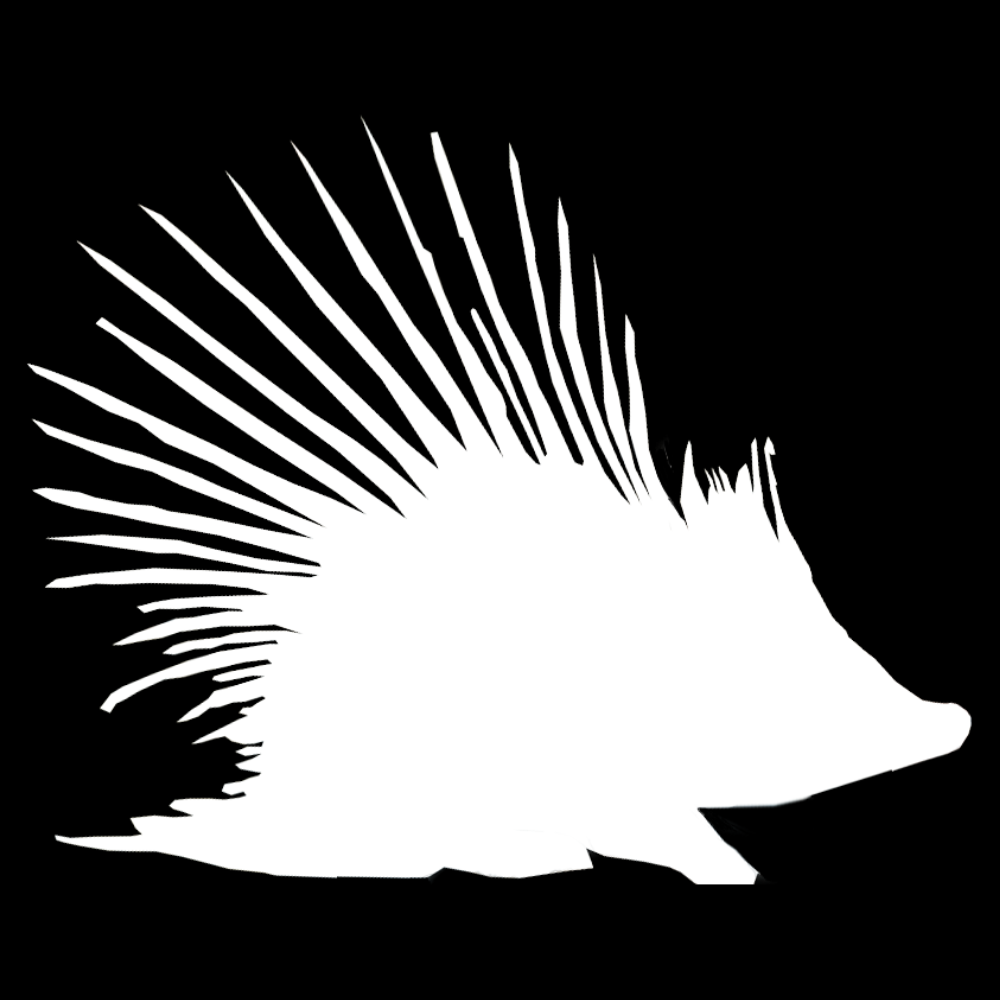
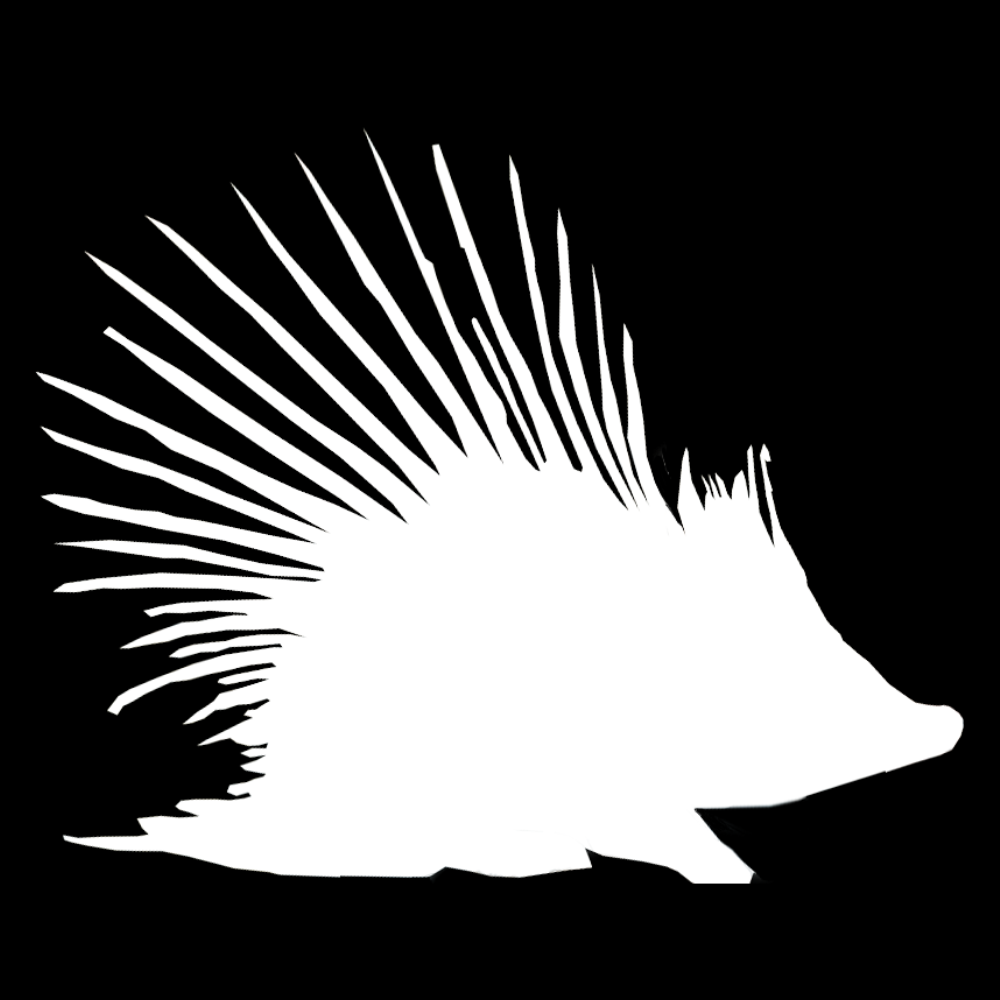
better alignment

diff --git a/scannerTest.py b/scannerTest.py
@@ -36,31 +36,34 @@ def detect_markers(frame):
     
     return qr_data.strip(), corners, ids
 
-    return None, corners, ids
-
 def align_with_aruco_markers(image, marker_corners, ids, sheet_size):
     """Align image based on the four ArUco markers (IDs 0–3)."""
     if marker_corners is None or ids is None or len(marker_corners) < 4:
         print("Error: Not enough ArUco markers detected.")
         return None
 
-    # Expected locations on the print sheet
-    id_to_position = {
-        0: [0, 0],
-        1: [sheet_size[0] - 1, 0],
-        2: [0, sheet_size[1] - 1],
-        3: [sheet_size[0] - 1, sheet_size[1] - 1]
+    # Expected marker centers based on the print sheet design:
+    # Markers were placed with a margin=50 and marker_size=500, so centers are:
+    # Marker 0: (50+250, 50+250) = (300, 300)
+    # Marker 1: (sheet_width - 50 - 250, 300) = (2180, 300)
+    # Marker 2: (300, sheet_height - 50 - 250) = (300, 3208)
+    # Marker 3: (2180, 3208)
+    expected_centers = {
+        0: [300, 300],
+        1: [2180, 300],
+        2: [300, 3208],
+        3: [2180, 3208]
     }
 
     actual_points = []
     expected_points = []
 
+    # Use the center of each detected marker for alignment
     for i, marker_id in enumerate(ids.flatten()):
-        if marker_id in id_to_position:
-        # Calculate the center of the marker from its four corners.
+        if marker_id in expected_centers:
             center = np.mean(marker_corners[i][0], axis=0)
             actual_points.append(center)
-            expected_points.append(id_to_position[marker_id])
+            expected_points.append(expected_centers[marker_id])
 
     if len(actual_points) != 4:
         print("Error: Missing some required marker IDs (0–3).")
@@ -83,12 +86,14 @@ def apply_bw_mask(image, mask):
         print("Error: Mask image not found.")
         return image
 
+    # Ensure the mask matches the image size
     if mask.shape[:2] != image.shape[:2]:
         mask = cv2.resize(mask, (image.shape[1], image.shape[0]))
 
     mask_gray = cv2.cvtColor(mask, cv2.COLOR_BGR2GRAY) if len(mask.shape) == 3 else mask
     _, binary_mask = cv2.threshold(mask_gray, 127, 255, cv2.THRESH_BINARY)
 
+    # Create a 4-channel result image with an alpha channel from the mask
     result = np.zeros((image.shape[0], image.shape[1], 4), dtype=np.uint8)
     result[:, :, :3] = image
     result[:, :, 3] = binary_mask
@@ -96,13 +101,14 @@ def apply_bw_mask(image, mask):
     return result
 
 def detect_qr_and_process(frame):
-    """Main logic to detect and extract the drawing region using ArUco markers."""
+    """Main logic to detect and extract the drawing region using ArUco markers, then apply the mask."""
     qr_data, marker_corners, ids = detect_markers(frame)
 
-    if qr_data is None:
+    if qr_data is None or qr_data == "":
         print("No QR code found.")
         return frame
 
+    # Load mask based on QR code data (e.g., animal name)
     mask_path = os.path.join("masks", f"{qr_data}.png")
     if not os.path.exists(mask_path):
         print(f"Error: Mask for '{qr_data}' not found.")
@@ -120,25 +126,33 @@ def detect_qr_and_process(frame):
         print("Could not align image with markers.")
         return frame
 
-    # Drawing area (outline) is centered and 2000x2000 on the sheet
+    # Drawing area (outline) is centered and originally 2000x2000 on the sheet.
     outline_x = (sheet_size[0] - 2000) // 2
     outline_y = (sheet_size[1] - 2000) // 2
-    cropped = aligned[outline_y:outline_y + 2000, outline_x:outline_x + 2000]
 
-    # Resize to 1000x1000 to match mask resolution
+    # Increase the region by a margin (delta) to cover a slightly larger area.
+    delta = 50
+    # Adjust the region slightly lower by vertical_adjustment pixels.
+    vertical_adjustment = -30
+
+    cropped = aligned[outline_y - delta + vertical_adjustment : outline_y + 2000 + delta + vertical_adjustment,
+                      outline_x - delta : outline_x + 2000 + delta]
+
+    # Resize cropped area and mask to match resolution (e.g., 1000x1000)
     cropped_resized = cv2.resize(cropped, (1000, 1000))
     mask_resized = cv2.resize(mask, (1000, 1000))
 
+    # Apply the mask to the cropped drawing area
     result = apply_bw_mask(cropped_resized, mask_resized)
 
     output_path = f"output_{qr_data}.png"
     cv2.imwrite(output_path, result, [cv2.IMWRITE_PNG_COMPRESSION, 9])
     print(f"Saved: {output_path}")
 
-    # Optional debug
+    # Debug image: draw the adjusted red rectangle
     debug = aligned.copy()
-    cv2.rectangle(debug, (outline_x, outline_y),
-                  (outline_x + 2000, outline_y + 2000), (0, 0, 255), 5)
+    cv2.rectangle(debug, (outline_x - delta, outline_y - delta + vertical_adjustment),
+                  (outline_x + 2000 + delta, outline_y + 2000 + delta + vertical_adjustment), (0, 0, 255), 5)
     cv2.imwrite("debug_alignment_outline.png", debug)
 
     return result
@@ -161,7 +175,8 @@ def main():
             processed_frame = detect_qr_and_process(frame)
             cv2.imshow("Processed Image", processed_frame)
             last_capture_time = current_time
-            # Right after processed_frame is computed:
+
+            # Show debug info for ArUco detection
             vis_frame = frame.copy()
             qr_data, corners, ids = detect_markers(vis_frame)
             if ids is not None:
